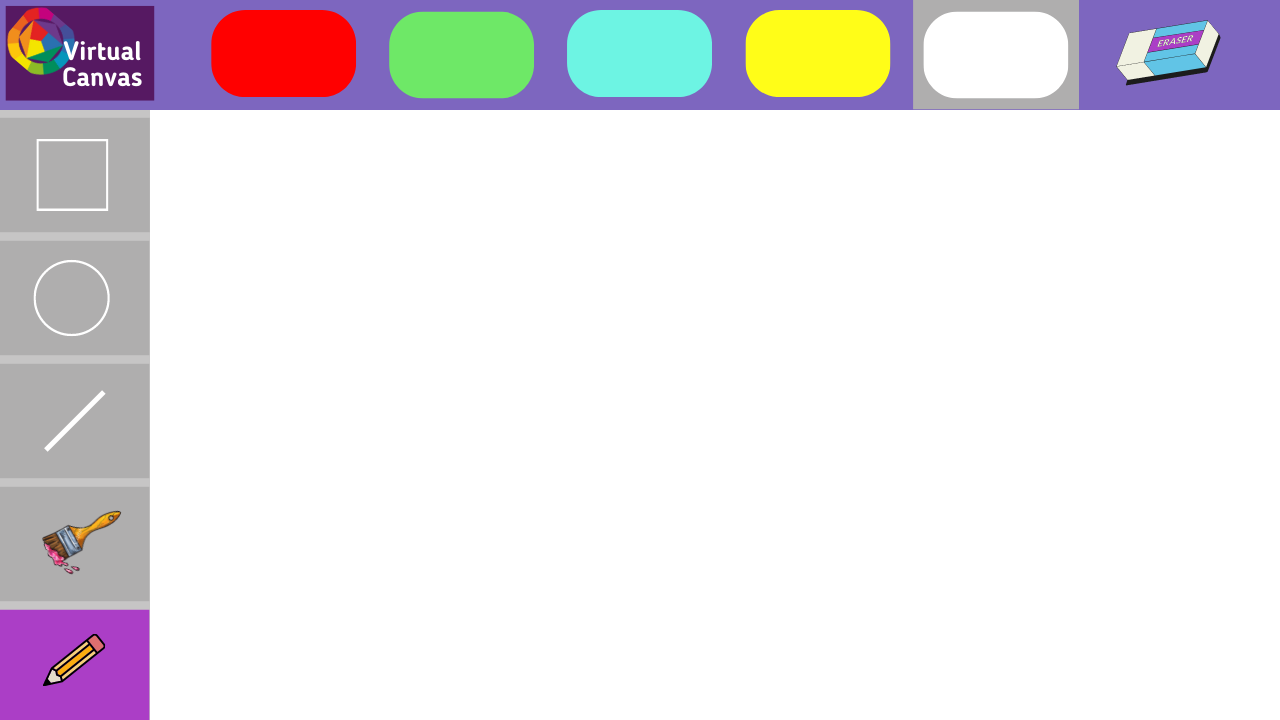
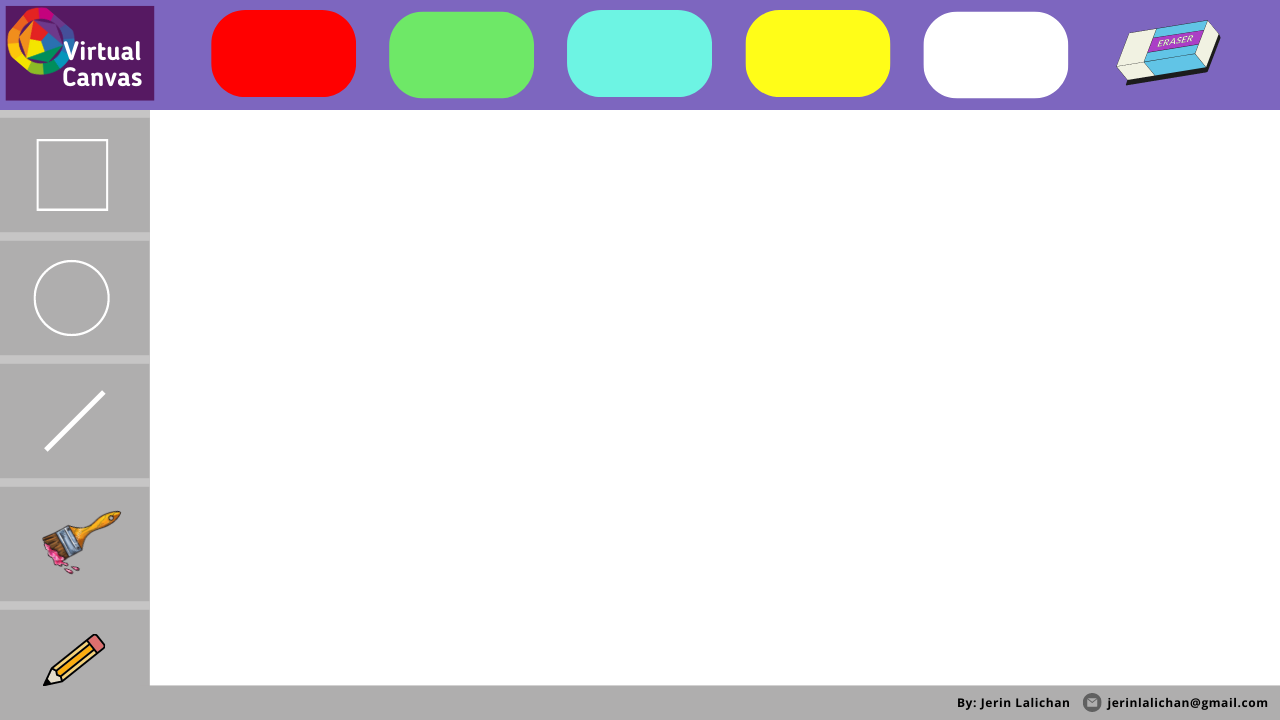
Updating code

Changed region(s): [[0.0, 0.825, 1.0, 1.0], [0.6875, 0.0, 0.8438, 0.1528]]

diff --git a/virtual_canvas.py b/virtual_canvas.py
@@ -26,6 +26,7 @@ print(len(overlayList))
 header_top = overlayList[0][0:110,0:1280] 
 header_side = overlayList[0][0:480,0:150]
 header_side_2 = overlayList[0][480:720,0:150]
+header_bottom = overlayList[0][685:720,150:1280]
 
 
 
@@ -85,8 +86,10 @@ while True:
             x= (x1+x2)//2
             y = (y1+y2)//2
             print("Selection mode")
+            
 
             if x< 160 :
+
                 if 115 < y < 230:
                     # header_top = overlayList[0][0:110,0:1280] 
                     header_side = overlayList[1][0:480,0:150]
@@ -177,7 +180,7 @@ while True:
                 cv2.rectangle(img,(x4,y4),(x1,y1),drawColor,(pencilthickness//6))
 
                 if fingers[4] == True:
-                    cv2.rectangle(imgCanvas,(x4,y4),(x1,y1),drawColor,(pencilthickness//4))
+                    cv2.rectangle(imgCanvas,(x4,y4),(x1,y1),drawColor,(pencilthickness//2))
 
 
 
@@ -187,7 +190,7 @@ while True:
                 cv2.circle(img,(x1,y1),rad,drawColor,thickness=(pencilthickness//6))
 
                 if fingers[4] == True:
-                    cv2.circle(imgCanvas,(x1,y1),rad,drawColor,thickness=(pencilthickness//4))
+                    cv2.circle(imgCanvas,(x1,y1),rad,drawColor,thickness=(pencilthickness//2))
  
    
 
@@ -199,9 +202,8 @@ while True:
                     xi,yi = x1,y1
 
 
-
-
             xp, yp = x1, y1  
+
 
 
   # Palm erase     
@@ -230,6 +232,8 @@ while True:
     img[0:110,0:1280] = header_top
     img[0:480,0:150] = header_side
     img[480:720,0:150] = header_side_2
+    img[685:720,150:1280] = header_bottom
+
 
 
 
